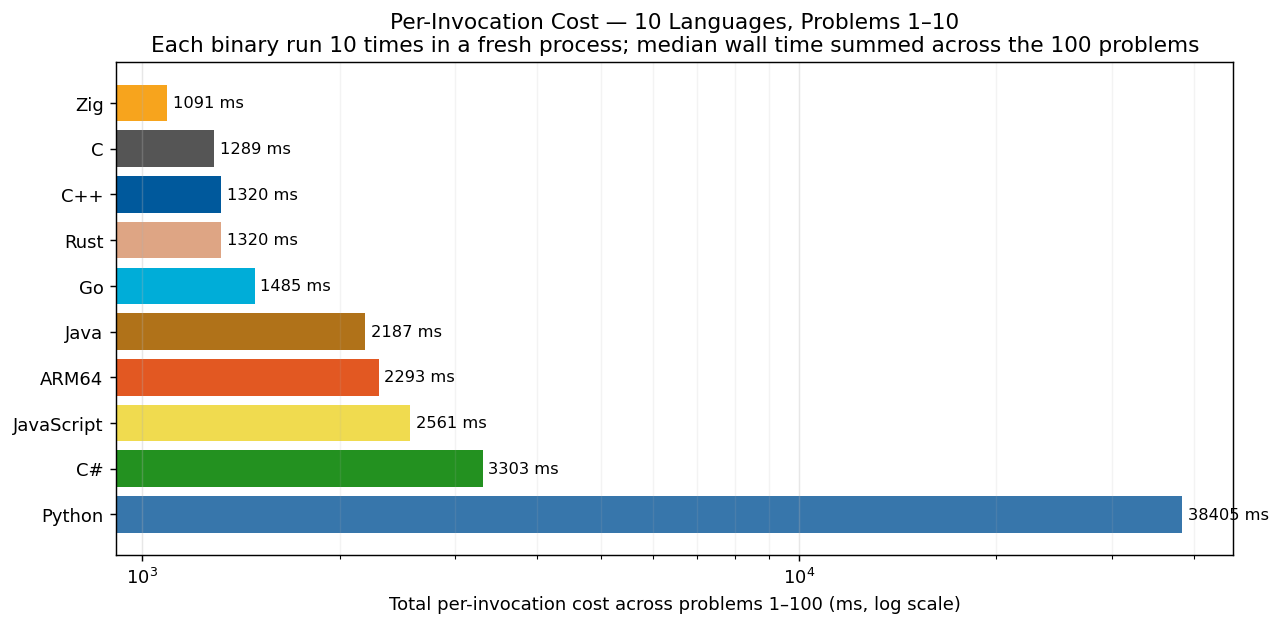
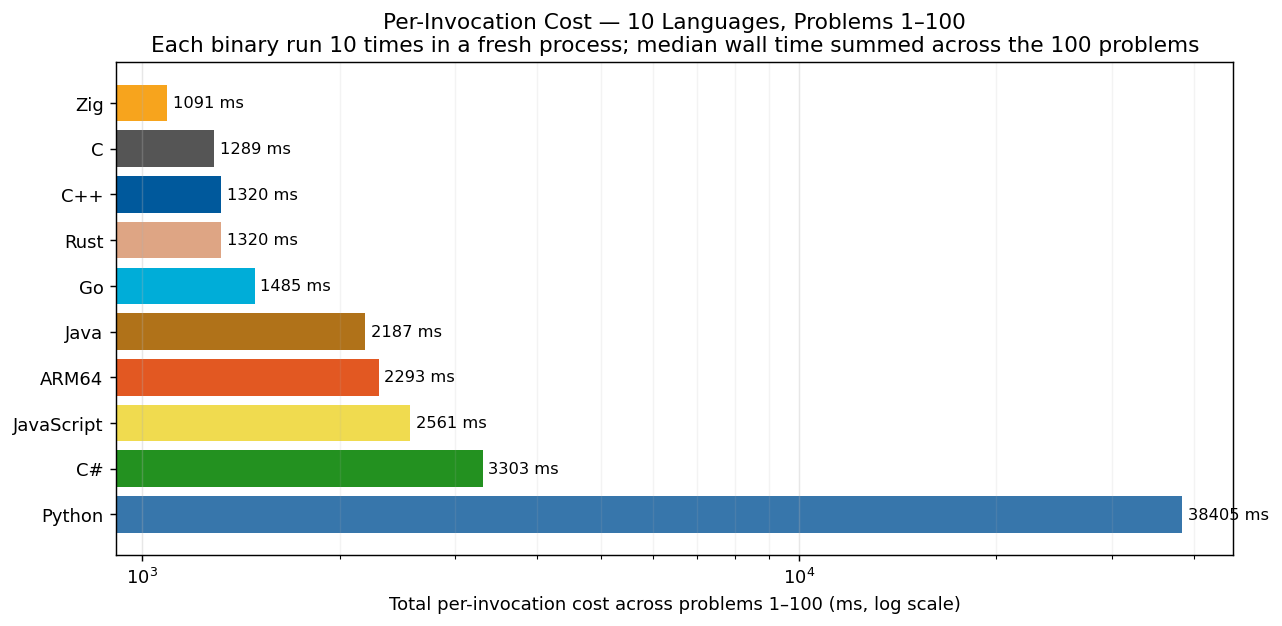
chart titles: scope-aware via len(LANGS)/len(SCOPE_PROBLEMS) — were hardcoded '10 Languages, Problems 1-10' which read wrong alongside the scope-aware subtitle ('across the 100 problems')

Changed region(s): [[0.4992, 0.0, 0.7488, 0.0607], [0.2808, 0.0, 0.468, 0.0607]]

diff --git a/report.py b/report.py
@@ -188,7 +188,7 @@ def render_speed_vs_size_chart(agg: dict) -> Path:
     ax.set_yscale("log")
     ax.set_xlabel(f"Total source lines across problems 1–{len(SCOPE_PROBLEMS)} (log scale)")
     ax.set_ylabel("Total per-invocation cost — ms (log scale)")
-    ax.set_title("Speed vs Code Size — 10 Languages, Problems 1–10\n"
+    ax.set_title(f"Speed vs Code Size — {len(LANGS)} Languages, Problems 1–{len(SCOPE_PROBLEMS)}\n"
                  "Bottom-left corner = fast + concise; top-right = slow + verbose")
     ax.grid(which="major", alpha=0.3)
     ax.grid(which="minor", alpha=0.12)
@@ -249,7 +249,7 @@ def render_coverage_grid_chart(agg: dict) -> Path:
     ax.set_yticks([i + 0.5 for i in range(n_langs)])
     ax.set_yticklabels([DISPLAY[lang] for lang in reversed(ranked)], fontsize=10)
     ax.set_aspect("equal")
-    ax.set_title("Coverage + Speed Heatmap — 10 Languages × 10 Problems",
+    ax.set_title(f"Coverage + Speed Heatmap — {len(LANGS)} Languages × {len(SCOPE_PROBLEMS)} Problems",
                  fontsize=12)
     ax.tick_params(length=0)
     for spine in ax.spines.values():
@@ -296,7 +296,7 @@ def render_total_chart(agg: dict) -> Path:
     ax.invert_yaxis()  # fastest on top
     ax.set_xscale("log")
     ax.set_xlabel(f"Total per-invocation cost across problems 1–{len(SCOPE_PROBLEMS)} (ms, log scale)")
-    ax.set_title("Per-Invocation Cost — 10 Languages, Problems 1–10\n"
+    ax.set_title(f"Per-Invocation Cost — {len(LANGS)} Languages, Problems 1–{len(SCOPE_PROBLEMS)}\n"
                  f"Each binary run 10 times in a fresh process; median wall time summed across the {len(SCOPE_PROBLEMS)} problems")
     # Value labels at the end of each bar
     for i, (bar, ms) in enumerate(zip(bars, values_ms)):
